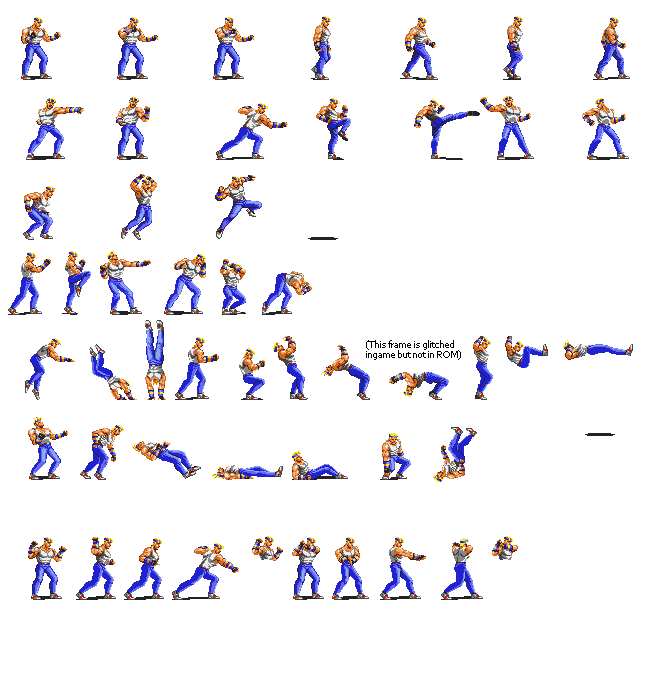
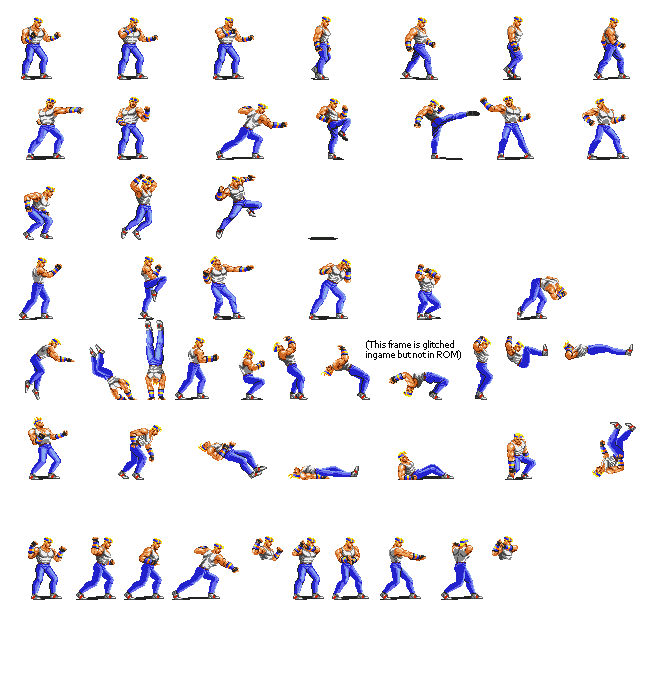
Player can perform a frontal hold on a still enemy

diff --git a/Player.cpp b/Player.cpp
@@ -118,29 +118,44 @@ bool Player::Update(unsigned int msec_elapsed, const bool upd_logic)
 		
 		if (AllowAnimationInterruption())
 		{
-			if (grounded)
-				move_speed.y += speed.y*input_vertical;
-
-			move_speed.x += speed.x*input_horizontal;
-			facing_right = input_horizontal == 0 ? facing_right : (input_horizontal > 0 ? true : false);
-
-			if (grounded == false)	// air 
-			{
-				if (input_attack)
-					UpdateCurrentAnimation(&jump_attack, 0, fx_voice);
-			}
-			else 		// grounded
-			{
-				if (input_attack_back)
-					UpdateCurrentAnimation(&attack_back, attacks_duration, fx_attack_miss);
-				else if (input_jump)
-					UpdateCurrentAnimation(&jump_prep, jump_prep_duration, fx_jump);
-				else if (input_attack)
-					UpdateCurrentAnimation(&attack1, attacks_duration, fx_attack_miss);
-				else if (move_speed.IsZero())
+			if(is_holding)
+			{ 
+				if (facing_right == true && input_horizontal < 0 || facing_right == false && input_horizontal > 0)	// letting go off the hold!
+				{
 					UpdateCurrentAnimation(&idle);
-				else
-					UpdateCurrentAnimation(&walk);
+					facing_right = !facing_right;
+				}
+			}
+			else if (is_being_hold)
+			{
+
+			}
+			else
+			{
+				if (grounded)
+					move_speed.y += speed.y*input_vertical;
+
+				move_speed.x += speed.x*input_horizontal;
+				facing_right = input_horizontal == 0 ? facing_right : (input_horizontal > 0 ? true : false);
+
+				if (grounded == false)	// air 
+				{
+					if (input_attack)
+						UpdateCurrentAnimation(&jump_attack, 0, fx_voice);
+				}
+				else 		// grounded
+				{
+					if (input_attack_back)
+						UpdateCurrentAnimation(&attack_back, attacks_duration, fx_attack_miss);
+					else if (input_jump)
+						UpdateCurrentAnimation(&jump_prep, jump_prep_duration, fx_jump);
+					else if (input_attack)
+						UpdateCurrentAnimation(&attack1, attacks_duration, fx_attack_miss);
+					else if (move_speed.IsZero())
+						UpdateCurrentAnimation(&idle);
+					else
+						UpdateCurrentAnimation(&walk);
+				}
 			}
 		}
 		if (upd_logic)
@@ -442,6 +457,28 @@ bool Player::LoadFromConfigFile(const char* file_path)
 		json_array_clear(j_array_inner);
 	}
 	json_array_clear(j_array);
+
+	//being_hit animation
+	being_hit.speed = (float)json_object_dotget_number(root_object, "player.being_hit.speed");
+	j_array = json_object_dotget_array(root_object, "player.being_hit.frames");
+	for (int i = 0; i < (int)json_array_get_count(j_array); ++i)
+	{
+		j_array_inner = json_array_get_array(j_array, i);
+		being_hit.frames.push_back({ (int)json_array_get_number(j_array_inner, 0), (int)json_array_get_number(j_array_inner, 1), (int)json_array_get_number(j_array_inner, 2), (int)json_array_get_number(j_array_inner, 3) });
+		json_array_clear(j_array_inner);
+	}
+	json_array_clear(j_array);
+
+	//holding_front
+	attack_back.speed = (float)json_object_dotget_number(root_object, "player.holding_front.speed");
+	j_array = json_object_dotget_array(root_object, "player.holding_front.frames");
+	for (int i = 0; i < (int)json_array_get_count(j_array); ++i)
+	{
+		j_array_inner = json_array_get_array(j_array, i);
+		holding_front.frames.push_back({ (int)json_array_get_number(j_array_inner, 0), (int)json_array_get_number(j_array_inner, 1), (int)json_array_get_number(j_array_inner, 2), (int)json_array_get_number(j_array_inner, 3) });
+		json_array_clear(j_array_inner);
+	}
+	json_array_clear(j_array);
 	
 	//shadow
 	j_array = json_object_dotget_array(root_object, "player.shadow");
@@ -483,6 +520,6 @@ void Player::CheatCodes() {
 		UpdateCurrentAnimation(&being_hit, being_hit_duration);
 	if (App->input->GetKey(SDL_SCANCODE_T) == KEY_DOWN)
 		UpdateCurrentAnimation(&being_thrown, being_thrown_duration);
-	if (App->input->GetKey(SDL_SCANCODE_A) == KEY_DOWN)
+	if (App->input->GetKey(SDL_SCANCODE_A) == KEY_REPEAT)
 		UpdateCurrentAnimation(&holding_front);
 }

diff --git a/EntityManager.cpp b/EntityManager.cpp
@@ -138,7 +138,7 @@ void EntityManager::HandleCollision(Collider* a, Collider* b)
 		{first = b; second = a;}
 
 	int depth_difference = a->parent->GetDepth() - b->parent->GetDepth();
-	if (depth_difference < -5 || depth_difference > 5)
+	if (depth_difference < -6 || depth_difference > 6)
 		return;
 
 	switch (first->type)
@@ -150,22 +150,33 @@ void EntityManager::HandleCollision(Collider* a, Collider* b)
 			}
 			else if (second->type == colliderType::ENEMY)	// Holding!
 			{
-				if (first->parent->facing_right == second->parent->facing_right)	// back hold
+				if ( first->parent->IsGrounded() &&
+					(first->parent->facing_right == true && first->parent->position.x < second->parent->position.x) ||
+					(first->parent->facing_right == false && second->parent->position.x < first->parent->position.x) )
 				{
-					first->parent->HoldingBack(); 
-					second->parent->BeingHoldBack();
+					if (first->parent->facing_right == second->parent->facing_right)	// back hold
+					{
+						//first->parent->HoldingBack(); 
+						//second->parent->BeingHoldBack();
+					}
+					else
+					{
+						first->parent->SetHoldingFront();
+						second->parent->SetBeingHoldFront();
+					}
+					if (depth_difference != 0)
+						second->parent->SetDepth(first->parent->GetDepth());
 				}
 				else
 				{
-					first->parent->HoldingFront();
-					second->parent->BeingHoldFront();
+					second->parent->SetIdle();
 				}
 			}
 			else if (second->type == colliderType::ENEMY_ATTACK)	// Being hit!
 			{
 				if (second->parent->attacking && first->parent->hittable)
 				{
-					first->parent->BeingHit();
+					first->parent->SetBeingHit();
 					App->audio->PlayFx(second->parent->fx_attack_hit);
 					first->parent->DecreaseHealth(8);	// tmp
 				}
@@ -181,7 +192,7 @@ void EntityManager::HandleCollision(Collider* a, Collider* b)
 			{
 				if (first->parent->attacking  && second->parent->hittable )	
 				{
-					second->parent->BeingHit();
+					second->parent->SetBeingHit();
 					App->audio->PlayFx(first->parent->fx_attack_hit);	
 					second->parent->DecreaseHealth(8); // tmp
 				}

diff --git a/Entity.cpp b/Entity.cpp
@@ -41,6 +41,8 @@ void Entity::UpdatePosition(const iPoint new_speed)
 	}
 	attack_collider->rect.y = position.y + attack_collider_offset.y;
 	hit_collider->rect.y = position.y + hit_collider_offset.y;
+	if (grounded)
+		ground_y = position.y;
 	
 }
 
@@ -64,9 +66,17 @@ bool Entity::Draw() const
 int Entity::GetDepth() const {
 	return ground_y;
 }
+void Entity::SetDepth(int new_depth) {
+	int diff = new_depth - ground_y;
+	UpdatePosition({ 0,diff });
+}
 
+bool Entity::IsGrounded() const 
+{
+	return grounded;
+}
 //----------------------------------------------------
-bool Entity::IsAlive()
+bool Entity::IsAlive() const
 {
 	return health > 0;
 }
@@ -85,23 +95,33 @@ bool Entity::Die()
 	return false;
 }
 void Entity::AddScore(int amount) {}
+
 //-------------------    Setters for collisions---------------------------------
-void Entity::BeingHit(){
+void Entity::SetIdle()
+{
+	UpdateCurrentAnimation(&idle);
+}
+
+void Entity::SetBeingHit(){
 	UpdateCurrentAnimation(&being_hit, being_hit_duration);
 }
-void Entity::HoldingFront()
+
+void Entity::SetHoldingFront()
 {
 	UpdateCurrentAnimation(&holding_front);
 }
-void Entity::HoldingBack()
+
+void Entity::SetHoldingBack()
 {
 	UpdateCurrentAnimation(&holding_back);
 }
-void Entity::BeingHoldFront()
+
+void Entity::SetBeingHoldFront()
 {
 	UpdateCurrentAnimation(&being_hold_front);
 }
-void Entity::BeingHoldBack()
+
+void Entity::SetBeingHoldBack()
 {
 	UpdateCurrentAnimation(&being_hold_back);
 }
@@ -158,6 +178,17 @@ void Entity::UpdateCurrentAnimation(Animation *new_anim,  int block_anim_duratio
 			attacking = true;
 		else
 			attacking = false;
+		
+		// holding status
+		if (current_animation == &holding_front || current_animation == &holding_back)
+			is_holding = true;
+		else
+			is_holding = false;
+
+		if (current_animation == &being_hold_back || current_animation == &being_hold_front)
+			is_being_hold = true;
+		else
+			is_being_hold = false;
 	}
 }
 

diff --git a/EnemyGarcia.cpp b/EnemyGarcia.cpp
@@ -46,12 +46,15 @@ bool EnemyGarcia::Update(unsigned int msec_elapsed, const bool upd_logic)
 
 		if (AllowAnimationInterruption())
 		{
-			if (parent->player->position.x >= position.x)
-				facing_right = true;
-			else
-				facing_right = false;
-			UpdateCurrentAnimation(&idle);	
-			UpdatePosition({ 0,0 });
+			if( is_being_hold == false)
+			{ 
+				if (parent->player->position.x >= position.x)
+					facing_right = true;
+				else
+					facing_right = false;
+				UpdateCurrentAnimation(&idle);
+				UpdatePosition({ 0,0 });
+			}
 		}
 	}
 	
@@ -171,6 +174,15 @@ bool EnemyGarcia::LoadFromConfigFile(const char* file_path)
 	}
 	json_array_clear(j_array);
 
+	being_hold_front.speed = (float)json_object_dotget_number(root_object, "garcia.being_hold_front.speed");
+	j_array = json_object_dotget_array(root_object, "garcia.being_hold_front.frames");
+	for (int i = 0; i < (int)json_array_get_count(j_array); ++i)
+	{
+		j_array_inner = json_array_get_array(j_array, i);
+		being_hold_front.frames.push_back({ (int)json_array_get_number(j_array_inner, 0), (int)json_array_get_number(j_array_inner, 1), (int)json_array_get_number(j_array_inner, 2), (int)json_array_get_number(j_array_inner, 3) });
+		json_array_clear(j_array_inner);
+	}
+	json_array_clear(j_array);
 
 
 //--- free json 

diff --git a/Entity.h b/Entity.h
@@ -37,21 +37,25 @@ public:
 	void UpdateCurrentAnimation(Animation *new_anim, int block_anim_duration = 0, int fx_new_anim = -1);
 
 	bool Draw() const;
-	int GetDepth() const;
+	int  GetDepth() const;
+	void SetDepth( int new_depth);
+	bool IsGrounded() const;
 
 	void IncreaseHealth(int amount);
 	void DecreaseHealth(int amount);
 
-	void BeingHit();
-	void HoldingFront();
-	void HoldingBack();
-	void BeingHoldFront();
-	void BeingHoldBack();
+	void SetIdle();
+	void SetBeingHit();
+	void SetHoldingFront();
+	void SetHoldingBack();
+	void SetBeingHoldFront();
+	void SetBeingHoldBack();
 
 	virtual void AddScore(int amount);
+	
 
 protected:
-	bool IsAlive();
+	bool IsAlive() const;
 	bool Die();
 	bool AllowAnimationInterruption();
 	virtual bool LoadFromConfigFile(const char* file_path);
@@ -68,6 +72,8 @@ public:
 	bool hittable = true;
 	bool attacking = false;
 	bool facing_right = true;
+	bool is_holding = false;
+	bool is_being_hold = false;
 
 	unsigned int fx_attack_hit = 0;
 	Types m_type = Types::unknown;
